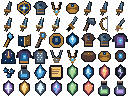
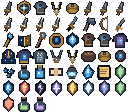
fix(assets): sync Terran NPCs and shop items with sprite pipeline

diff --git a/src/assets/assetRegistry.test.ts b/src/assets/assetRegistry.test.ts
@@ -97,10 +97,14 @@ describe('grade pixel art v0.1', () => {
     expect(manifest.schemaVersion).toBe('0.1')
     const ids = manifest.entries.map((entry) => entry.assetId)
     expect(new Set(ids).size).toBe(ids.length)
-    expect(ids).toHaveLength(71)
-    expect(manifest.entries.filter((entry) => entry.family === 'item')).toHaveLength(48)
+    expect(ids).toHaveLength(78)
+    expect(manifest.entries.filter((entry) => entry.family === 'item')).toHaveLength(51)
     expect(manifest.entries.filter((entry) => entry.family === 'monster')).toHaveLength(3)
-    expect(manifest.entries.filter((entry) => entry.family === 'npc')).toHaveLength(18)
+    expect(manifest.entries.filter((entry) => entry.family === 'npc')).toHaveLength(22)
+    for (const id of ['item.simple-ether', 'item.field-compress', 'item.antidote',
+      'npc.daeryn.portrait', 'npc.sylwen.portrait', 'npc.vorren.portrait', 'npc.lithwynn.portrait']) {
+      expect(ids, id).toContain(id)
+    }
     for (const sprite of manifest.entries) {
       const asset = resolveAsset(sprite.assetId)
       expect(asset.path, sprite.assetId).toBe(sprite.path)

diff --git a/scripts/build_pixel_assets.py b/scripts/build_pixel_assets.py
@@ -735,10 +735,10 @@ ASSETS = {
     "items/item_simple_ether.png": sylwen_ether,
     "items/item_field_compress.png": field_compress,
     "items/item_antidote.png": sylwen_antidote,
-    "npcs/npc_daeryn_portrait.png": terran_healer,
-    "npcs/npc_sylwen_portrait.png": terran_alchemist,
-    "npcs/npc_vorren_portrait.png": terran_tracker,
-    "npcs/npc_lithwynn_portrait.png": terran_inscriber,
+    "npcs/npc_daeryn_portrait.png": lambda: terran_healer().resize((32, 32), Image.Resampling.NEAREST),
+    "npcs/npc_sylwen_portrait.png": lambda: terran_alchemist().resize((32, 32), Image.Resampling.NEAREST),
+    "npcs/npc_vorren_portrait.png": lambda: terran_tracker().resize((32, 32), Image.Resampling.NEAREST),
+    "npcs/npc_lithwynn_portrait.png": lambda: terran_inscriber().resize((32, 32), Image.Resampling.NEAREST),
     "items/item_mycelial_fragment.png": mycelial_fragment,
     "items/item_astravel_record.png": record,
     "gems/gem_emerald_growth.png": lambda: gem_variant('moss', 'moss_light', 'moss_dark', 'leaf'),
@@ -773,6 +773,9 @@ ITEM_IDS = {
     'items/item_fungal_nucleus.png': 'item.fungal-nucleus',
     'items/item_spore_cluster.png': 'item.spore-cluster',
     'items/item_minor_tonic.png': 'item.minor-tonic',
+    'items/item_simple_ether.png': 'item.simple-ether',
+    'items/item_field_compress.png': 'item.field-compress',
+    'items/item_antidote.png': 'item.antidote',
     'items/item_mycelial_fragment.png': 'item.mycelial-fragment',
     'items/item_astravel_record.png': 'item.quest-record',
 }
@@ -783,6 +786,10 @@ ENEMY_IDS = {
 }
 NPC_IDS = {
     'npc_eldamar': 'npc.eldamar.portrait',
+    'npc_daeryn': 'npc.daeryn.portrait',
+    'npc_sylwen': 'npc.sylwen.portrait',
+    'npc_vorren': 'npc.vorren.portrait',
+    'npc_lithwynn': 'npc.lithwynn.portrait',
     'npc_mireya_dunavar': 'npc.mireya.portrait',
     'npc_master_rustal': 'npc.rustal.portrait',
     'npc_observador_cebios': 'npc.cebios.portrait',
